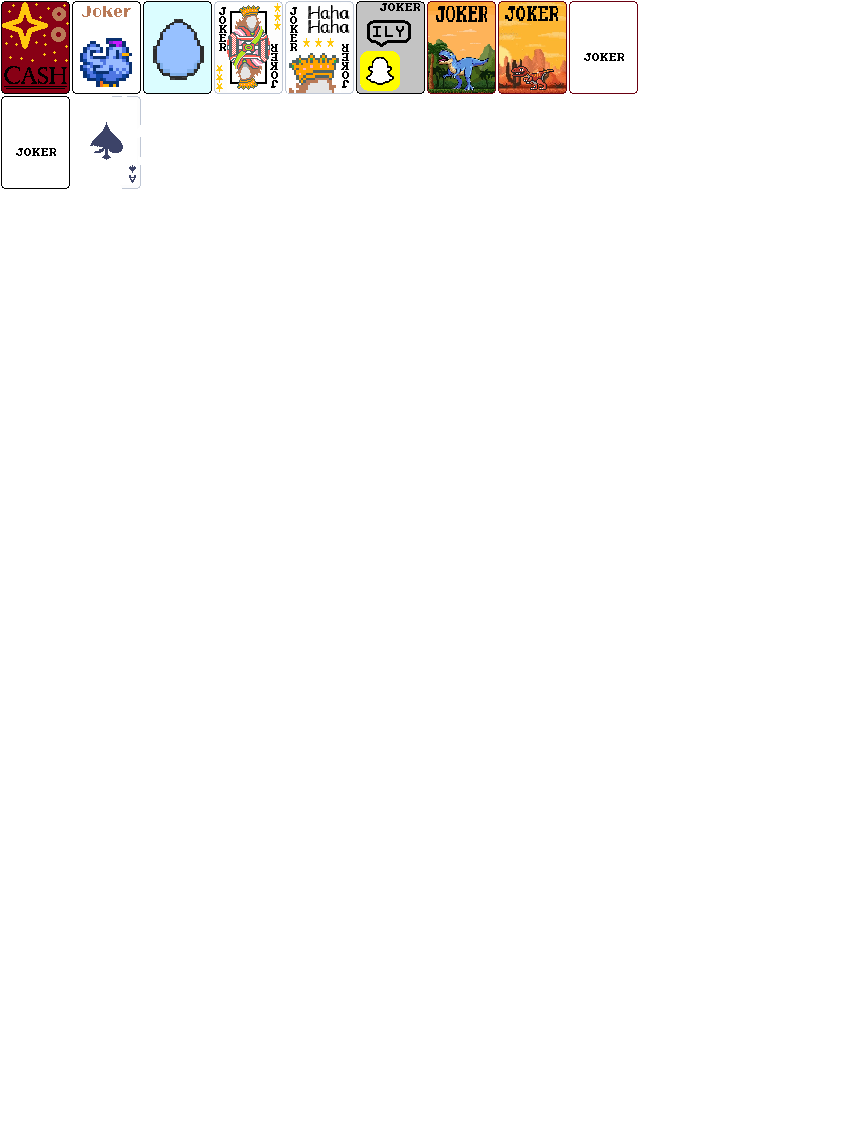
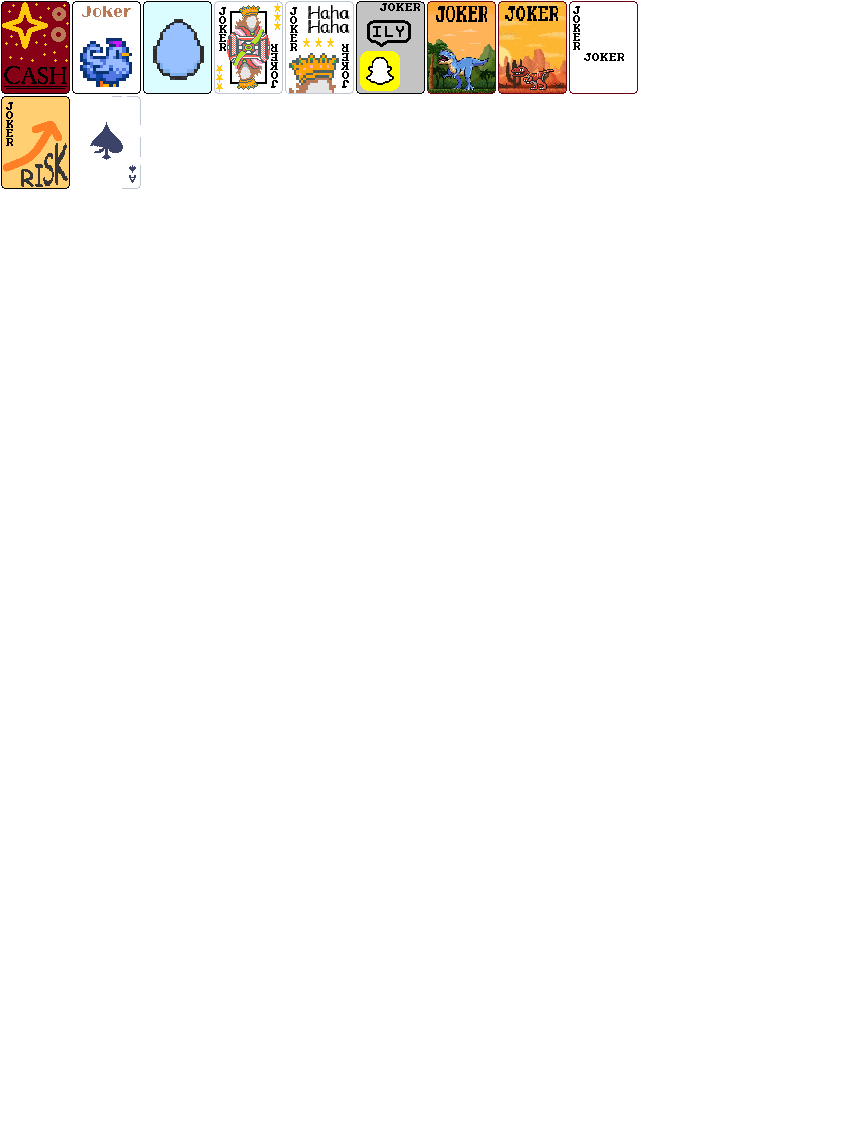
Correct HR,HR Joker

Changed region(s): [[0.0, 0.062, 0.0925, 0.186], [0.6785, 0.0, 0.7094, 0.031]]

diff --git a/README.md b/README.md
@@ -21,6 +21,7 @@ Just download the zip file, extract it and place it in your Mod folder.
 - Snapchat Girl : 1/7 chances to create a Legendary Joker on selling, otherwise -20$
 - T-rex : Create a Tarot every 2 round and destroy a consumable for gaining +5 Mult and +25 Chips if possible
 - Velocyraptor : +6 Mult if hand doesn't contain Ace
+- High Risk, High Reward : X5 Mult on High Card, 1/3 chances to destroy the playing card
 - Shredded Ace : Create an Ace at the start of the round and +1 Mult for each Ace
 
 *Some Joker has secret interaction with other Jokers*
